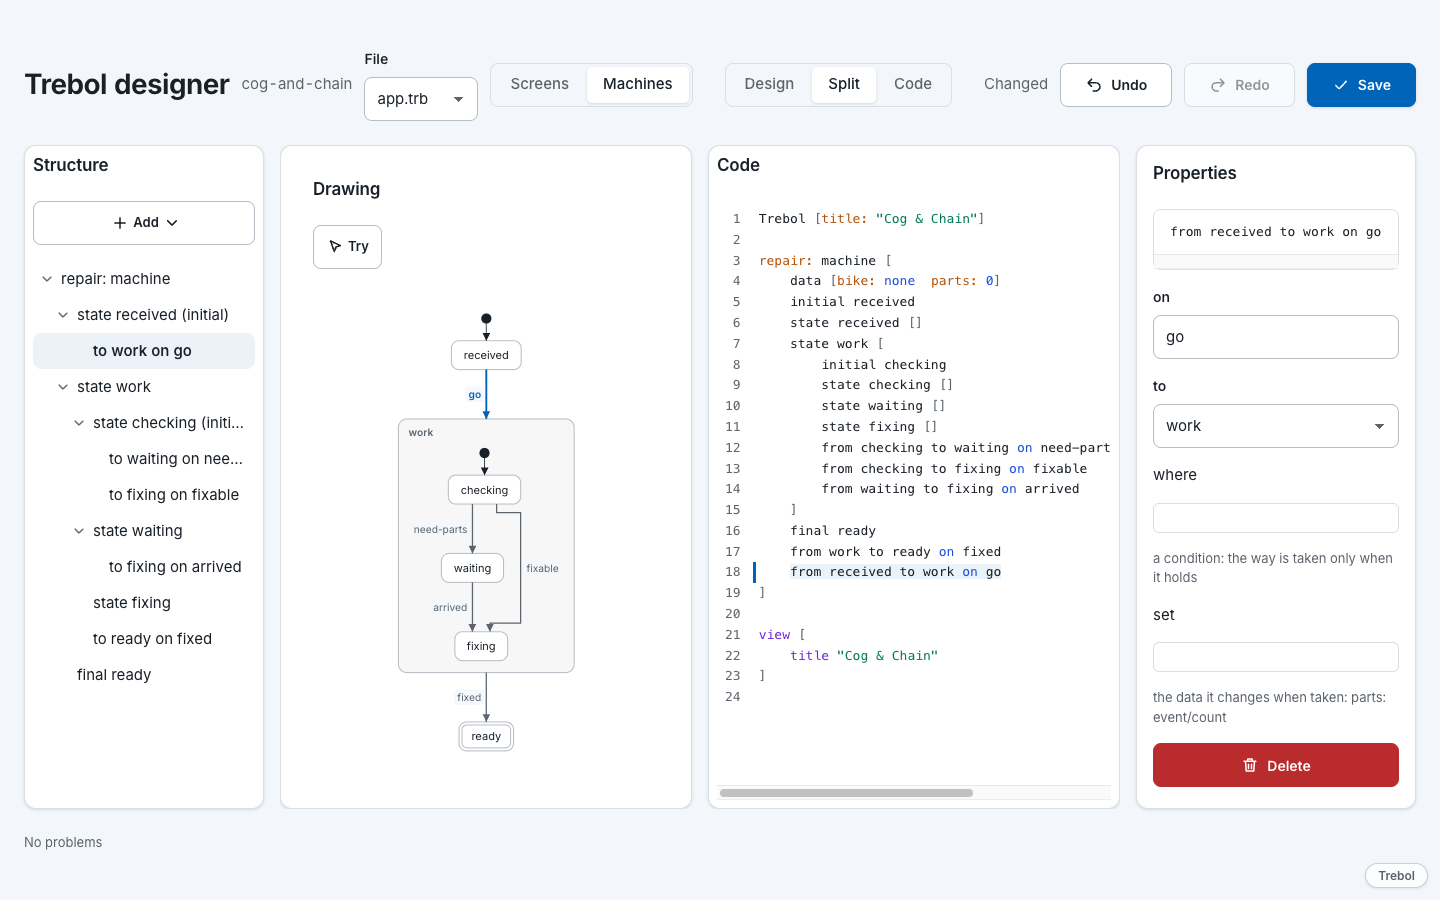
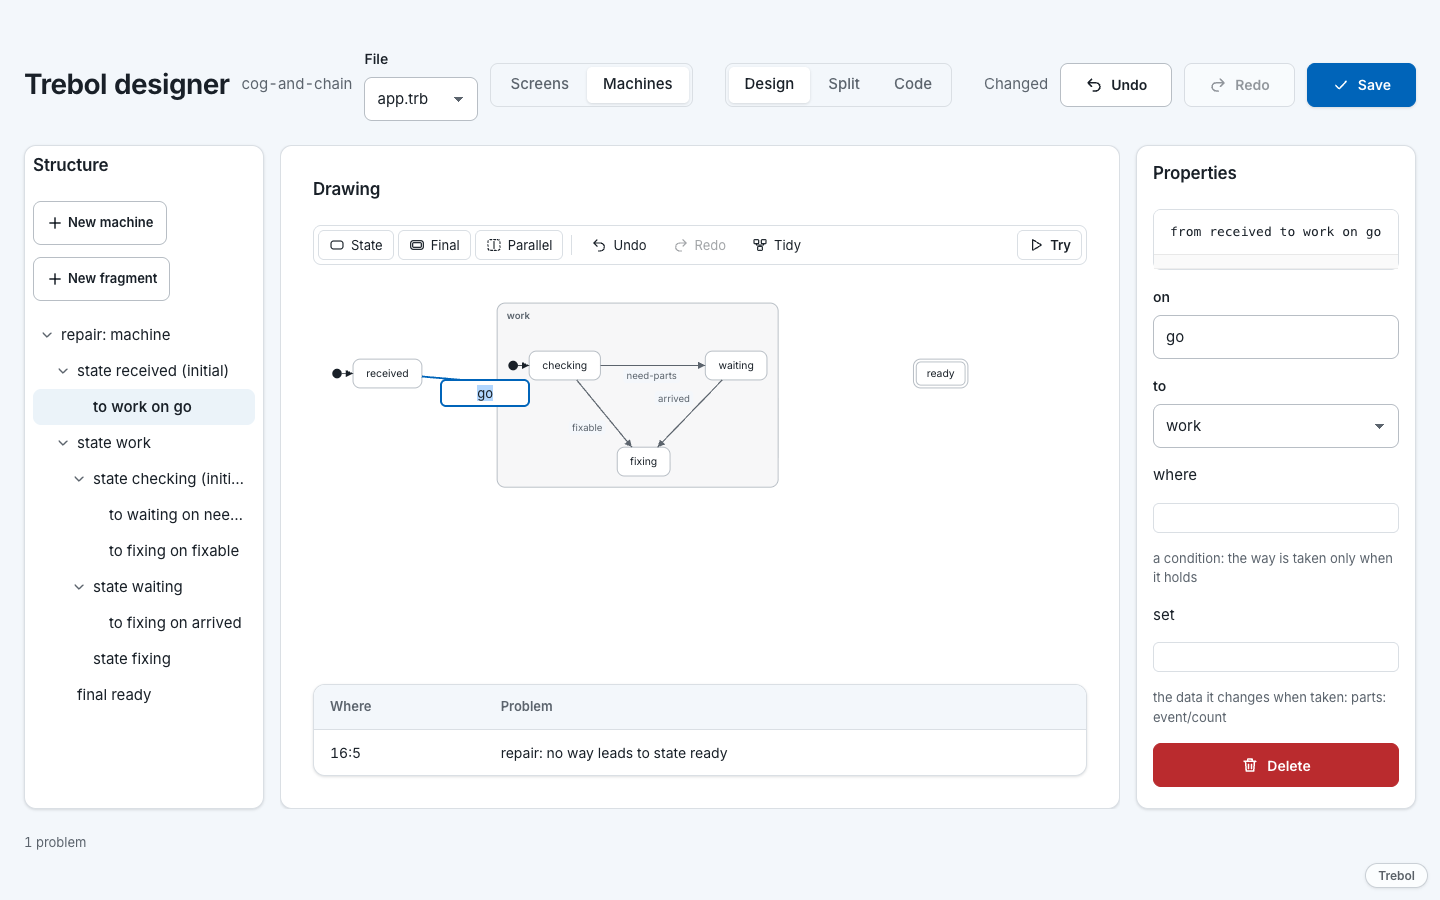
The machines page of the designer's tutorial follows the designer as it is now: states dragged from the bar and named in place, ways drawn from the dots around a state, places kept where they are put, and a new part on fragments, made on their own drawing, used and opened in a state and tried throug

diff --git a/docs/designer/08-machines.md b/docs/designer/08-machines.md
@@ -8,25 +8,28 @@ events with buttons and watching where it goes, before any screen uses it.
 
 ## The machines of a file
 
-**Edit**, at the top, switches the window between the **Screens** of the file and its **Machines**. In
-*Machines* the structure lists every machine the file makes, with the states inside each one and the ways out of
-each state. The centre shows the chosen machine as a **drawing**. A file that makes none says so:
+**Machines**, at the top, switches the window from the **Screens** of the file to its machines. The structure
+lists every machine the file makes, with the states inside each one and the ways out of each state. The centre
+shows the chosen machine as a **drawing**, with a bar over it. A file that makes none says so:
 
 ![A file with no machines yet](img/machines-none.png)
 
-**Add**, then **Machine**, writes a new machine at the end of the file. It has one state, its initial one, as
-every machine needs. Choose the machine and type its name, `repair`, in **name**: the code now says
-`repair: machine [...]`, and the rest of the program calls it by that word.
+**New machine** writes a new machine at the end of the file. It has one state, its initial one, as every machine
+needs. Choose the machine and type its name, `repair`, in **name**: the code now says `repair: machine [...]`,
+and the rest of the program calls it by that word.
 
 ![A new machine](img/machine-added.png)
 
 ## States
 
-**Add** puts a **State**, a **Final** state or a **Parallel** one inside what is chosen: in the machine, or in a
-state, which then holds states of its own. The first state of a level is its initial state; the check box
-*initial* in a state's properties moves that to another. Rename `start` to `received`. Add a state `work`, choose
-it, and add `checking`, `waiting` and `fixing` inside it. Then choose the machine again and add a **Final** state
-`ready`, where a repair ends.
+**State**, **Final** and **Parallel**, on the bar, are dragged onto the drawing: the new state goes where it is let
+go, and its name is typed in place, on its box. Let go inside another state, it goes into that one, which then
+holds states of its own. A double click on an empty spot adds a state there too, and a double click on a name
+renames it. The first state of a level is its initial state; a right click on another one gives *Make it the
+initial state*, with *Add a state inside*, *Rename* and *Delete the state*.
+
+Rename `start` to `received`. Add a state `work`, and drop `checking`, `waiting` and `fixing` inside it. Then add a
+**Final** state `ready` beside `work`, where a repair ends.
 
 In the drawing a state is a rounded box. A state with states inside is a box around them, with its name on top. A
 final state has a double border, and a black dot points at the initial state of each level.
@@ -40,17 +43,17 @@ right.
 
 ## Ways
 
-A **way** takes the machine from one state to another when an event comes. To draw one, point at the **edge** of
-a state in the drawing: the pointer becomes a cross. Drag from there onto another state and let go. The designer
-writes `from received to work on go` and chooses the new way:
+A **way** takes the machine from one state to another when an event comes. Point at a state in the drawing: four
+dots show around it. Drag one of them onto another state and let go. The designer writes `from received to work
+on go`, chooses the new way and lets you type its event in place, over `go`:
 
 ![A way drawn from received to work](img/machine-drag.png)
 
-`go` is only a first name. In the way's properties, **on** says which events take it: type `start`. With
-`[start resume]`, either one does. **to** sends it to another state. In the same way draw `checking` to `waiting`
-on `need-parts`, `checking` to `fixing` on `fixable`, `waiting` to `fixing` on `arrived`, and `work` to `ready`
-on `fixed`. A way can also start from the structure: **Add a way**, in a state's properties, lists every state it
-can go to.
+Type `start` and press Enter. A dot dragged to an empty spot makes a new state there, and the way to it. In the
+same way draw `checking` to `waiting` on `need-parts`, `checking` to `fixing` on `fixable`, `waiting` to `fixing`
+on `arrived`, and `work` to `ready` on `fixed`. In the way's properties, **on** says which events take it: with
+`[start resume]`, either one does. **to** sends it to another state. A way can also start from the properties:
+**Add a way**, in a state's properties, lists every state it can go to.
 
 A way's properties have two boxes of code:
 
@@ -90,11 +93,16 @@ repair: machine [
 
 ## Where states go
 
-The first time a machine is drawn, the designer lays it out by itself. From then on each state stays where you
-put it: drag a state to any spot and let go. Drop it **inside** another state and it goes into that one, which
-grows to hold it; drag it out of its box and it leaves it, its ways going with it. A state with states inside
-takes them along. A new state goes where you drop it from the bar, where you double-click, or where you let go of
-a way dragged to an empty spot. The arrow keys move the chosen state, a little at a time, and more with Shift.
+Each state stays where you put it: drag a state to any spot and let go. Drop it **inside** another state and it
+goes into that one, which grows to hold it; drag it out of its box and it leaves it, its ways going with it. While
+a state is carried, the box it would go into is lit:
+
+![ready carried over work: let go there, it would go into work](img/machine-places.png)
+
+A state with states inside takes them along. A new state goes where you drop it from the bar, where you
+double-click, or where you let go of a way dragged to an empty spot. The arrow keys move the chosen state, a
+little at a time, and more with Shift; *Take it out of*, in its right-click menu, moves it out of the state it is
+in. **Undo** and **Redo**, on the bar, undo a move as they undo any other change.
 
 The designer keeps these places in the file, after everything else, in a comment, so the machine never sees
 them:
@@ -102,19 +110,20 @@ them:
 ```
 ; layout [
 ;     repair [
-;         received 40x30  work 40x120  work/checking 40x40  work/waiting 200x40  ready 400x30
+;         received 40x110  work 220x40  work/checking 40x60  work/waiting 260x60  work/fixing 150x180  ready 740x110
 ;     ]
 ; ]
 ```
 
 Each state is named by its path in the machine, and its place is the top-left corner of its box, counted from
 the box it is in. Rename a state, move it or delete it, and its place follows. A state with no place, as one you
-write yourself in the code, goes to the right of the others. **Tidy**, on the drawing's bar, lays the whole
-machine out again.
+write yourself in the code, goes to the right of the others. A machine with no places at all, as one written
+by hand, is laid out by the designer the first time it is drawn. **Tidy**, on the bar, lays the whole machine
+out again.
 
 ## Trying it
 
-**Try**, over the drawing, makes the machine and starts it, here in the designer. While it runs, the properties
+**Try**, at the end of the bar, makes the machine and starts it, here in the designer. While it runs, the properties
 give their place to it:
 
 - a button for each event its ways name. Those no way out takes now cannot be used: at the start only `start`
@@ -130,13 +139,79 @@ goes into `work`, then to `waiting`, and the data keeps the bike and the three p
 
 The machine's timers run as they would in the app. A state with a `timeout` also gets a button, *Time out*, which
 makes the time go off now, so a quarter of an hour need not pass to see what follows. A machine that reaches a
-final state says it ended. **Restart** starts it again from its initial state, and **Stop** ends the trial.
+final state says it ended. **Restart**, on the bar, starts it again from its initial state, and **Stop** ends the trial.
 Typing in the code stops it too, since the machine it ran is no longer the one written: a note says so, and
 *Try* makes it again.
 
 What the machine does while it is tried, its `on-enter` code or work it runs, really runs, in the designer's page.
 A shared machine (`shared`) is tried alone, without the app's other tabs, and its `on-save` is left out, so trying
 it saves nothing.
+
+## Pieces used again
+
+Before any work, the shop sends the customer the price and waits for a yes, sending it again if a day goes by
+with no answer. The shop will ask the same way when a repair needs more parts than planned. A shape that comes
+back is made once as a **fragment** (see [Pieces used again](../language/15-machines)): a piece of machine with
+blanks, which a state **uses** with the blanks filled in.
+
+**New fragment**, in the structure, writes one before the file's machines, since a machine can only use a
+fragment made before it. A fragment is listed with the machines and made on its own drawing, in the same way. Name it `approval`, and draw a state `asked` with a way to itself on
+`timeout`, and a state `agreed` it goes to on `yes`. In **blanks** write `ask [block!]`: each use gives code to
+`ask`, which says how the customer is asked. Give `asked` the `on-enter` code `ask` and the `timeout` `24:00`.
+`agreed` has no way out: when the machine gets there the fragment has done its work.
+
+![The approval fragment on its own drawing](img/machine-fragment.png)
+
+Back in `repair`, add a state `quote` between `received` and `work`: the way from `received` goes to `quote` now
+on `start`, and a way with no event goes from `quote` to `work`, taken when the fragment is done. In `quote`'s
+properties, **use** chooses the fragment, and **with** fills its blanks: `ask: [toast "Price sent"]`. The code
+says:
+
+```trebol
+approval: fragment [ask [block!]] [
+    initial asked
+    state asked [on-enter ask  timeout 24:00]
+    state agreed []
+    from asked to asked on timeout
+    from asked to agreed on yes
+]
+
+repair: machine [
+    data [bike: none  parts: 0]
+    initial received
+    state received []
+    state quote [use approval with [ask: [toast "Price sent"]]]
+    state work [
+        initial checking
+        state checking []
+        state waiting []
+        state fixing []
+        from checking to waiting on need-parts set [parts: event/count]
+        from checking to fixing on fixable
+        from waiting to fixing on arrived
+    ]
+    final ready
+    from received to quote on start set [bike: event/bike]
+    from quote to work
+    from work to ready on fixed
+]
+```
+
+In the drawing `quote` shows the fragment's name beside its own. **Open**, in its properties or its right-click
+menu, shows the fragment's states inside it, drawn dashed: they are there to be seen, and are changed on the
+fragment's own drawing, which **Edit approval** or a double click on them opens. Renaming the fragment renames
+it wherever it is used.
+
+![quote uses approval, open](img/machine-use.png)
+
+When the machine is tried, the fragment's states are lit as the machine's are. After `start`, the toast says
+*Price sent*, the machine is in `quote/asked`, and a *Time out asked* button sends the reminder without waiting
+a day:
+
+![Trying a machine through its fragment](img/machine-use-try.png)
+
+A blank left empty, or given something of a type it does not take, is a problem of the machine, shown under the
+drawing as any other.
 
 ## Problems
 
